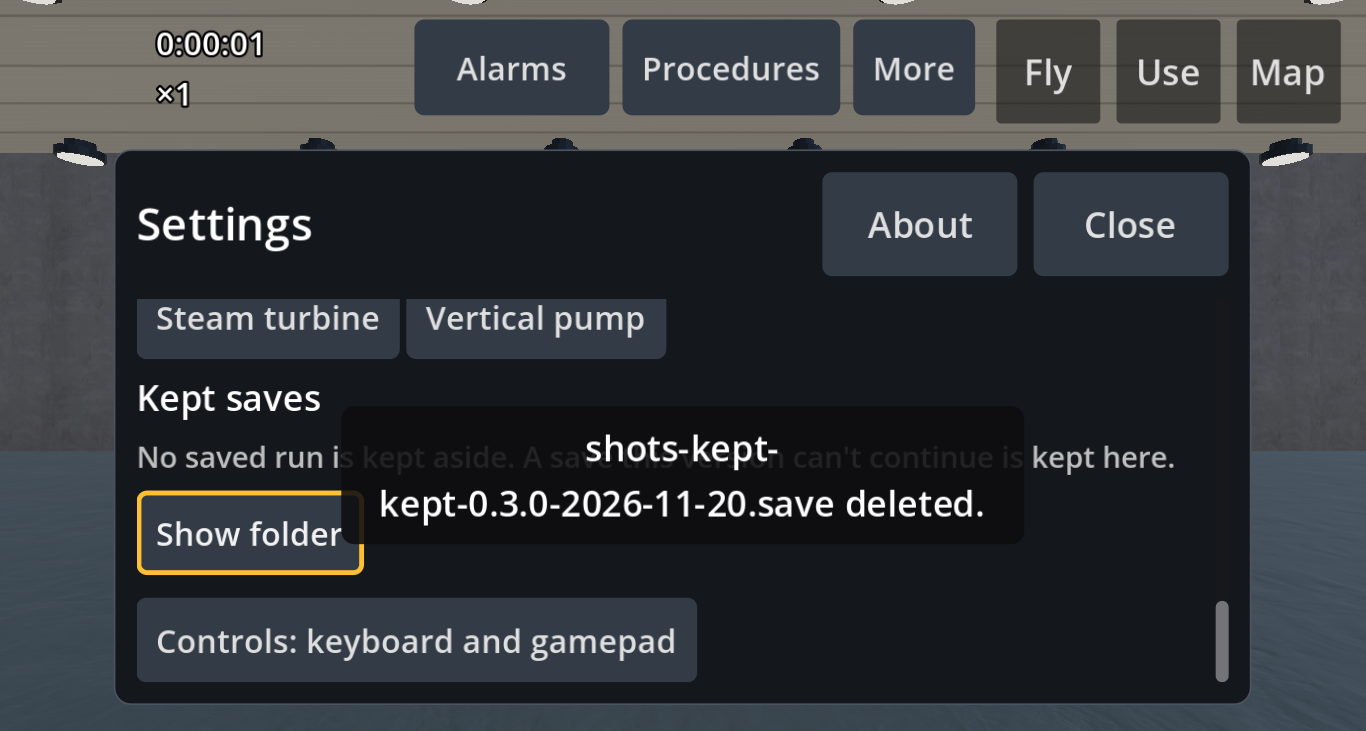
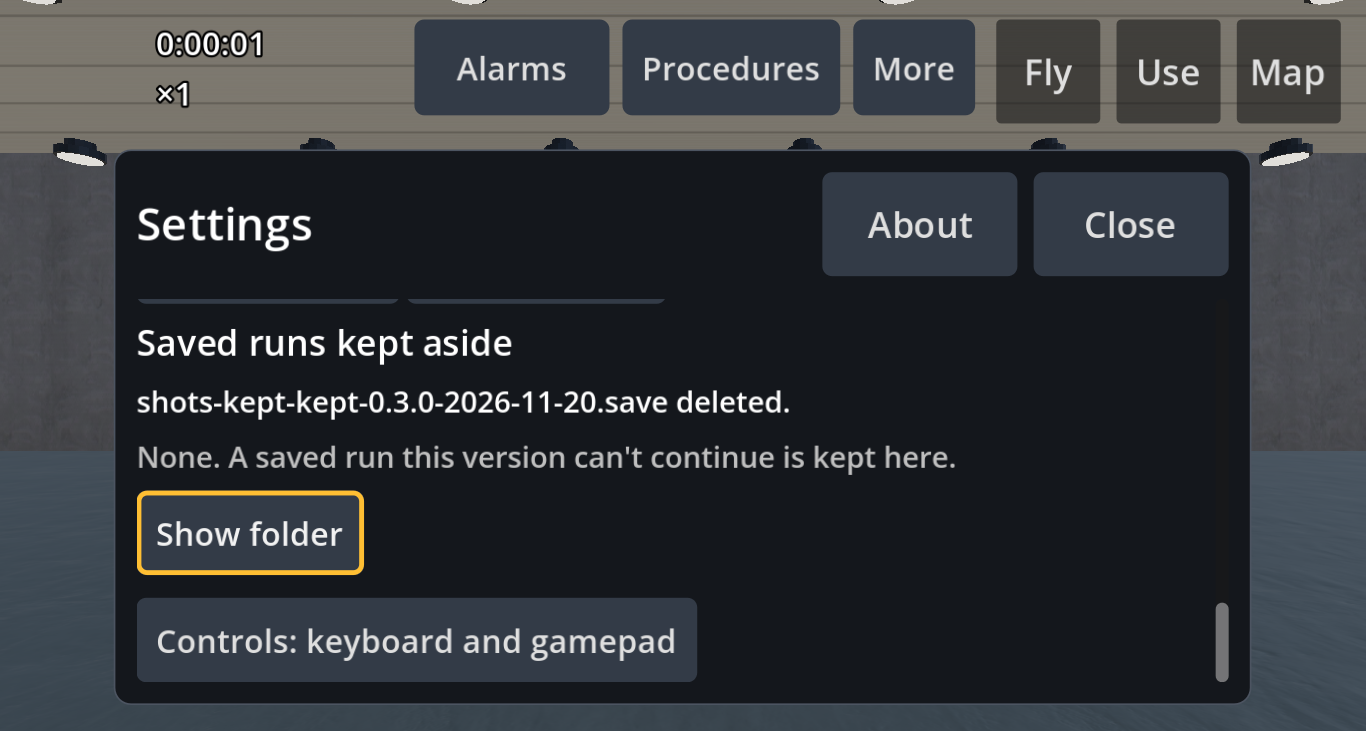
UX evidence: Saved runs kept aside, round 2

Changed region(s): [[0.0922, 0.3912, 0.5842, 0.5718], [0.123, 0.6019, 0.7072, 0.7524], [0.7379, 0.6019, 0.8609, 0.6621]]

diff --git a/MANIFEST.md b/MANIFEST.md
@@ -1,18 +1,18 @@
-# UX evidence: Settings' Kept saves (#474)
+# UX evidence: Saved runs kept aside (#474), round 2
 
-Synthetic (Walkdown Plant's invented plant; the kept files hold the synthetic 0.3.0 fixture), commit b122ef66131b39c52e2b48e7fb22e5235df41764, `apps/plant3d/tests/kept_saves_shots.gd` under offscreen.sh, the switch forced on. desk_uidefault (1600x900 window, 100 %), desk_ui2 (1366x768, UI size 200 %), phone_uidefault (2220x1080 phone layout; Show folder is left out on Android itself). States: kept_list, kept_delete_asks (Keep focused), kept_after_delete, kept_empty.
+Synthetic (Walkdown Plant's invented plant; the kept files hold the synthetic 0.3.0 fixture), commit ea8574d0bf5d3401311f5184b79f2fd8cabe4b8f, `apps/plant3d/tests/kept_saves_shots.gd` under offscreen.sh, the switch forced on. desk_uidefault (1600x900 window, 100 %), desk_ui2 (1366x768, UI size 200 %), phone_uidefault (2220x1080 phone layout). States: kept_list, kept_delete_asks (Keep focused, Delete for good destructive), kept_after_delete (said in the list), kept_empty.
 
 ```
-3ef541b76842b0c9f6abd210dd4a8b46d34cc1a60dc41d89af77b9d075ba841e  desk_ui2_kept_after_delete.png
-d42e3a2a7f47b07958bca72effd8c0114f6c3f27400c4db632b5d5322031c265  desk_ui2_kept_delete_asks.png
-88906496fe9bf8ba304a6892cce9fe8fe9834bdebc0ef4f77b4e51a801410be5  desk_ui2_kept_empty.png
-7b6afbf1bd4f256e27075c0abfa345d5d6a88819faff904d4932035a0d788a4c  desk_ui2_kept_list.png
-acfe9a0c45be112ea3d843c0f427cbdf867b87ffc1df41ba159edd4ae877f445  desk_uidefault_kept_after_delete.png
-2afe3117054a146d67163cb0c7be5baa53ed22030412953c7090b0d865971cc5  desk_uidefault_kept_delete_asks.png
-8a1fc3a553ab67996246937e4730cf220760169d0b43ed70a4d435569d58f307  desk_uidefault_kept_empty.png
-d68f2347445cb7fc879f5fcb0a802babdcdb1724144921ecc4b025efdac5077b  desk_uidefault_kept_list.png
-95059648adbda8b7e5919cebfb74e0eb114fc5a6aed54859257855d3d46b4e77  phone_uidefault_kept_after_delete.png
-5486cb3ecfd0eb1d79b91f5883deb63a25e9e021f6fa4e03470594a4c022d648  phone_uidefault_kept_delete_asks.png
-22afabf37f434385011fdeddf9d7c63ed8926e2a2a3798230da2ad4966094a79  phone_uidefault_kept_empty.png
-b4bf215cacbe22d40f548dfc0b8e6c47819d8a649d77e21443f8bb85c43b3e07  phone_uidefault_kept_list.png
+0ad3c6cf79c118d6548348c6fba68439775e25b517d72f5c2ee917aee24f423c  desk_ui2_kept_after_delete.png
+63e22f0bc1b657141c036c1d25609b9baa4c04113c624395255d4e380a05b515  desk_ui2_kept_delete_asks.png
+118588f2e94fec8d0134f2a65801282beebc8246d4602de57b7e7027fca23e79  desk_ui2_kept_empty.png
+e1763a5b276a773b1b64ecca14453130f3456d22d9f6127b974ff69643e1e384  desk_ui2_kept_list.png
+f5f2081936d9622edd28cfeee6acfc72669a979377409424db1494e81dab1e77  desk_uidefault_kept_after_delete.png
+f5693edb79a089fda5838279c7d922441e5f04e5d321931a888a76294bafac46  desk_uidefault_kept_delete_asks.png
+a7dbecedcce197883fe9d99a15adff59a28da17186be874aa93d0bb57862e21c  desk_uidefault_kept_empty.png
+02192cf577388d238ee0f7492d41509180cac090391837decf95a34b3809b99c  desk_uidefault_kept_list.png
+efcc638777d797d15b71ccd8f05285a9e23af9671b6957a7600d31eb7021d116  phone_uidefault_kept_after_delete.png
+5b05467b6b0143680bf134ed0e336c9667e0decdc9b84c12ae909705bbac371b  phone_uidefault_kept_delete_asks.png
+6439e572e7bf8aaf2d114bf59d3e41d0cba0fb840c628f735bff33474f2d69c9  phone_uidefault_kept_empty.png
+06e68f72fc9f96b0998cbe7211aec1b3d39986455499dc529cc5302d99e097e7  phone_uidefault_kept_list.png
 ```
